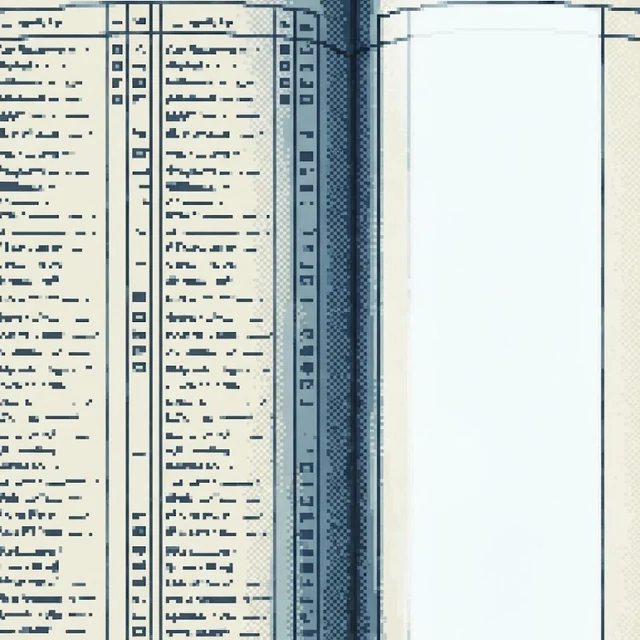
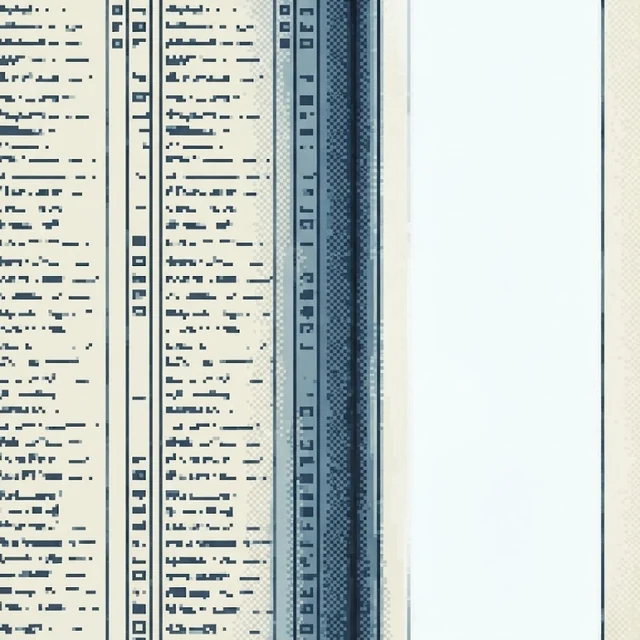
그림을 가운데로 — 카드 그림칸은 언제나 꽉 찬다
두 군데가 어긋나 있었다.

하나. 자르는 자리. 처음에는 줄마다 윤곽이 센 자리를 재서 «물건이 제일 많이
들어오는 정사각 창»을 골랐는데, 그러면 창이 물건 쪽으로 끌려가 확성기 ·
조타실 · 라디오가 화면 구석에 몰렸다. 보는 눈에는 그게 한쪽으로 붙은 그림이
된다. 이제 원본 폭은 그대로 두고 세로 한가운데를 자른다. 물건이 프레임의
한 줌밖에 안 되는 A5 만 예외로 당겨 잡았다 — 원본에서 종이가 폭의 22%였다.

둘. .cardart img 가 contain 이었다. 그림칸은 보통 정사각이라 티가 안 나지만,
창이 낮아 max-height:44dvh 가 걸리면 칸이 가로로 눌리고 좌우에 검은 띠가
선다. cover + object-position:50% 50% 로 바꿔 언제나 꽉 차고 가운데가 잡히게
했다. 잘리면 곤란한 그림은 눌러서 통째로 볼 수 있다.

390 · 1280 · 844×420 세 폭에서 재 봤다 — 칸은 316 / 371 / 185 정사각이고
그림 여백은 어느 쪽도 0 이다.

diff --git a/index.html b/index.html
@@ -1820,13 +1820,15 @@
      그림이 있는 카드와 없는 카드가 같은 틀 안에 서야 한 벌로 읽힌다. 예전에는
      그림 비율을 그대로 받아서 카드마다 높이가 제각각이었다 — 넘길 때마다 글이
      아래위로 뛰었다. 원고 그림은 전부 1:1 로 그린다.
-     잘라내지 않는다(contain) — 세로 그림은 아래쪽에 단서가 앉는 경우가 많아서
-     (밀랍 직인, 바닥의 자국) 가운데를 오려내면 그 카드가 말하려던 것이 사라진다.
-     남는 자리는 어둡게 둔다. */
+     빈틈 없이 채우고 가운데를 잡는다(cover). 원고 그림은 이미 1:1 이라 잘릴 것이
+     없고, 창이 낮아 칸이 가로로 눌리는 때만 위아래가 조금 깎인다 — 그때도 좌우로
+     검은 띠가 서는 것보다 꽉 찬 쪽이 낫다. 잘리면 곤란한 그림은 「눌러서 크게」로
+     통째로 볼 수 있다 — showPic 은 폭에 맞추고 높이를 그대로 두어 안 자른다. */
   .cardart{position:relative;margin:0 0 13px;border-radius:2px;overflow:hidden;
     border:1px solid var(--line);cursor:pointer;background:rgba(0,0,0,.35);
     aspect-ratio:1/1;max-height:44dvh}
-  .cardart img{display:block;width:100%;height:100%;object-fit:contain}
+  .cardart img{display:block;width:100%;height:100%;
+    object-fit:cover;object-position:50% 50%}
   /* ── 조각 맞추기 판 ───────────────────────────────────────────
      칩 그림을 깔고 그 위 허공에 자국이 떠 있다. 칩이 내는 초록빛이 그 근거고,
      그림의 어두운 고리가 «아직 안 쓴 조각이 놓인 자리»가 된다 — 무대를 따로

diff --git a/pending/rule_the_day/카드.md b/pending/rule_the_day/카드.md
@@ -78,10 +78,22 @@
 | H3 | 고장난 라디오 수신기 | `rule_the_day_card_H3.webp` |
 
 받아 온 원본은 세로 765×1024(A3만 687×1024) 픽셀아트였습니다. 카드 그림칸은
-정사각이므로 **줄마다 윤곽이 센 자리를 재서 물건이 제일 많이 들어오는 정사각
-창을 골라 잘라 냈고**, 640×640 webp 로 내보냈습니다(22–104KB). 위 §1 의
-「세로를 정사각에 끼우고 양옆을 비우지 말 것」을 사후에 지킨 셈입니다 —
-다음부터는 **처음부터 정사각으로 뽑는 것이 낫습니다.**
+정사각이므로 **원본 폭은 그대로 두고 세로 한가운데를 잘라** 640×640 webp 로
+내보냈습니다(21–100KB). 다음부터는 **처음부터 정사각으로 뽑는 것이 낫습니다.**
+
+> **가운데를 자릅니다 — 「빽빽한 쪽」을 좇지 않습니다.**
+> 처음에는 줄마다 윤곽이 센 자리를 재서 «물건이 제일 많이 들어오는 창»을
+> 골랐는데, 그러면 창이 물건 쪽으로 끌려가 확성기 · 조타실 · 라디오가 화면
+> 구석에 몰렸습니다. 눈에는 그게 **한쪽으로 붙은 그림**으로 보입니다.
+> 지금은 기하학적 한가운데를 자르고, 물건이 프레임의 한 줌밖에 안 되는
+> 것만 예외로 당겨 잡습니다 — 지금 예외는 A5 하나뿐입니다(원본에서 종이가
+> 폭의 22%밖에 안 됐습니다).
+
+화면 쪽도 같이 고쳤습니다. `.cardart img` 가 `contain` 이라 그림칸이 정사각이
+아닐 때(창이 낮아 `max-height:44dvh` 가 걸리는 때) 좌우에 검은 띠가 섰는데,
+**`cover` + `object-position:50% 50%`** 로 바꿔 **언제나 꽉 차고 가운데가
+잡힙니다.** 잘리면 곤란할 땐 그림을 눌러 통째로 볼 수 있습니다 — `showPic`
+은 폭에 맞추고 높이를 그대로 두어 안 자릅니다.
 
 나머지 30여 장은 아직 없습니다. 그림이 없는 카드는 화면이 그림칸 자리에
 카드 갈래 무늬만 세우고 넘어가므로, 없어도 게임은 돕니다.
